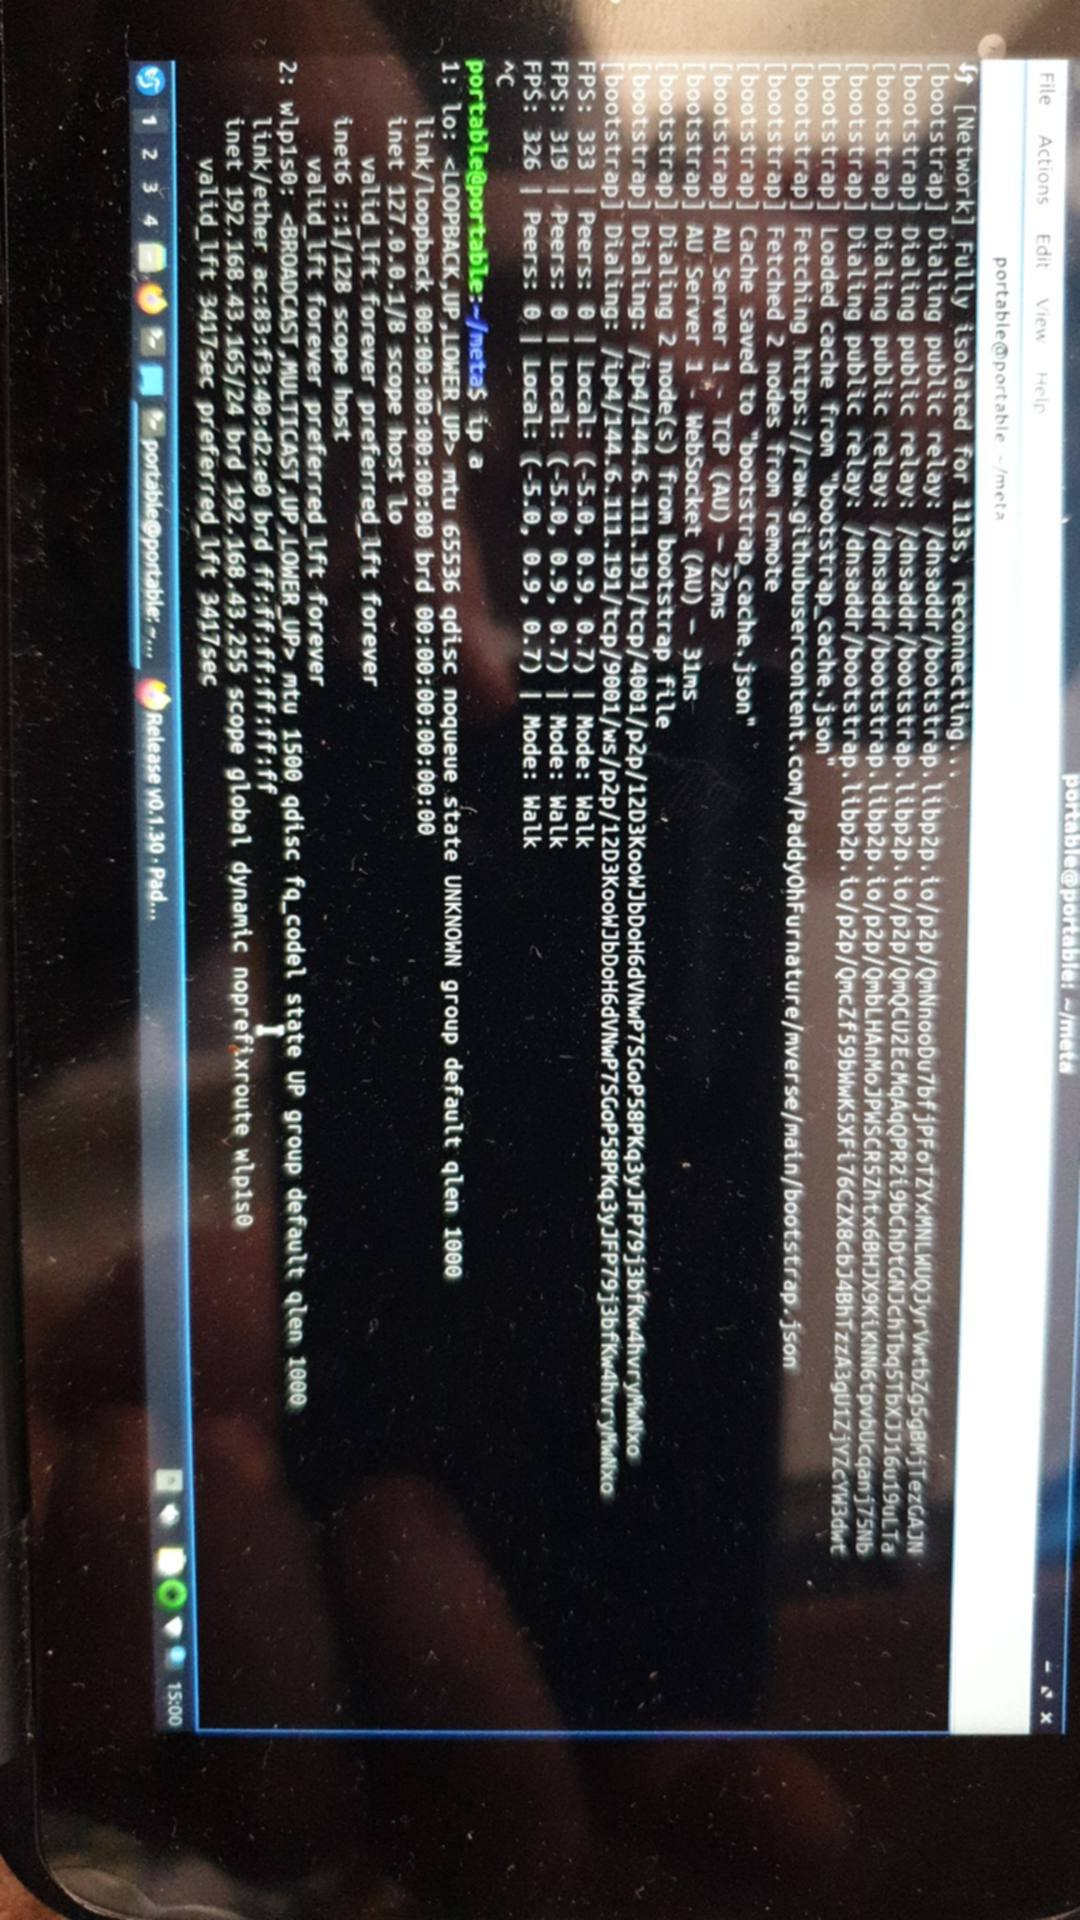
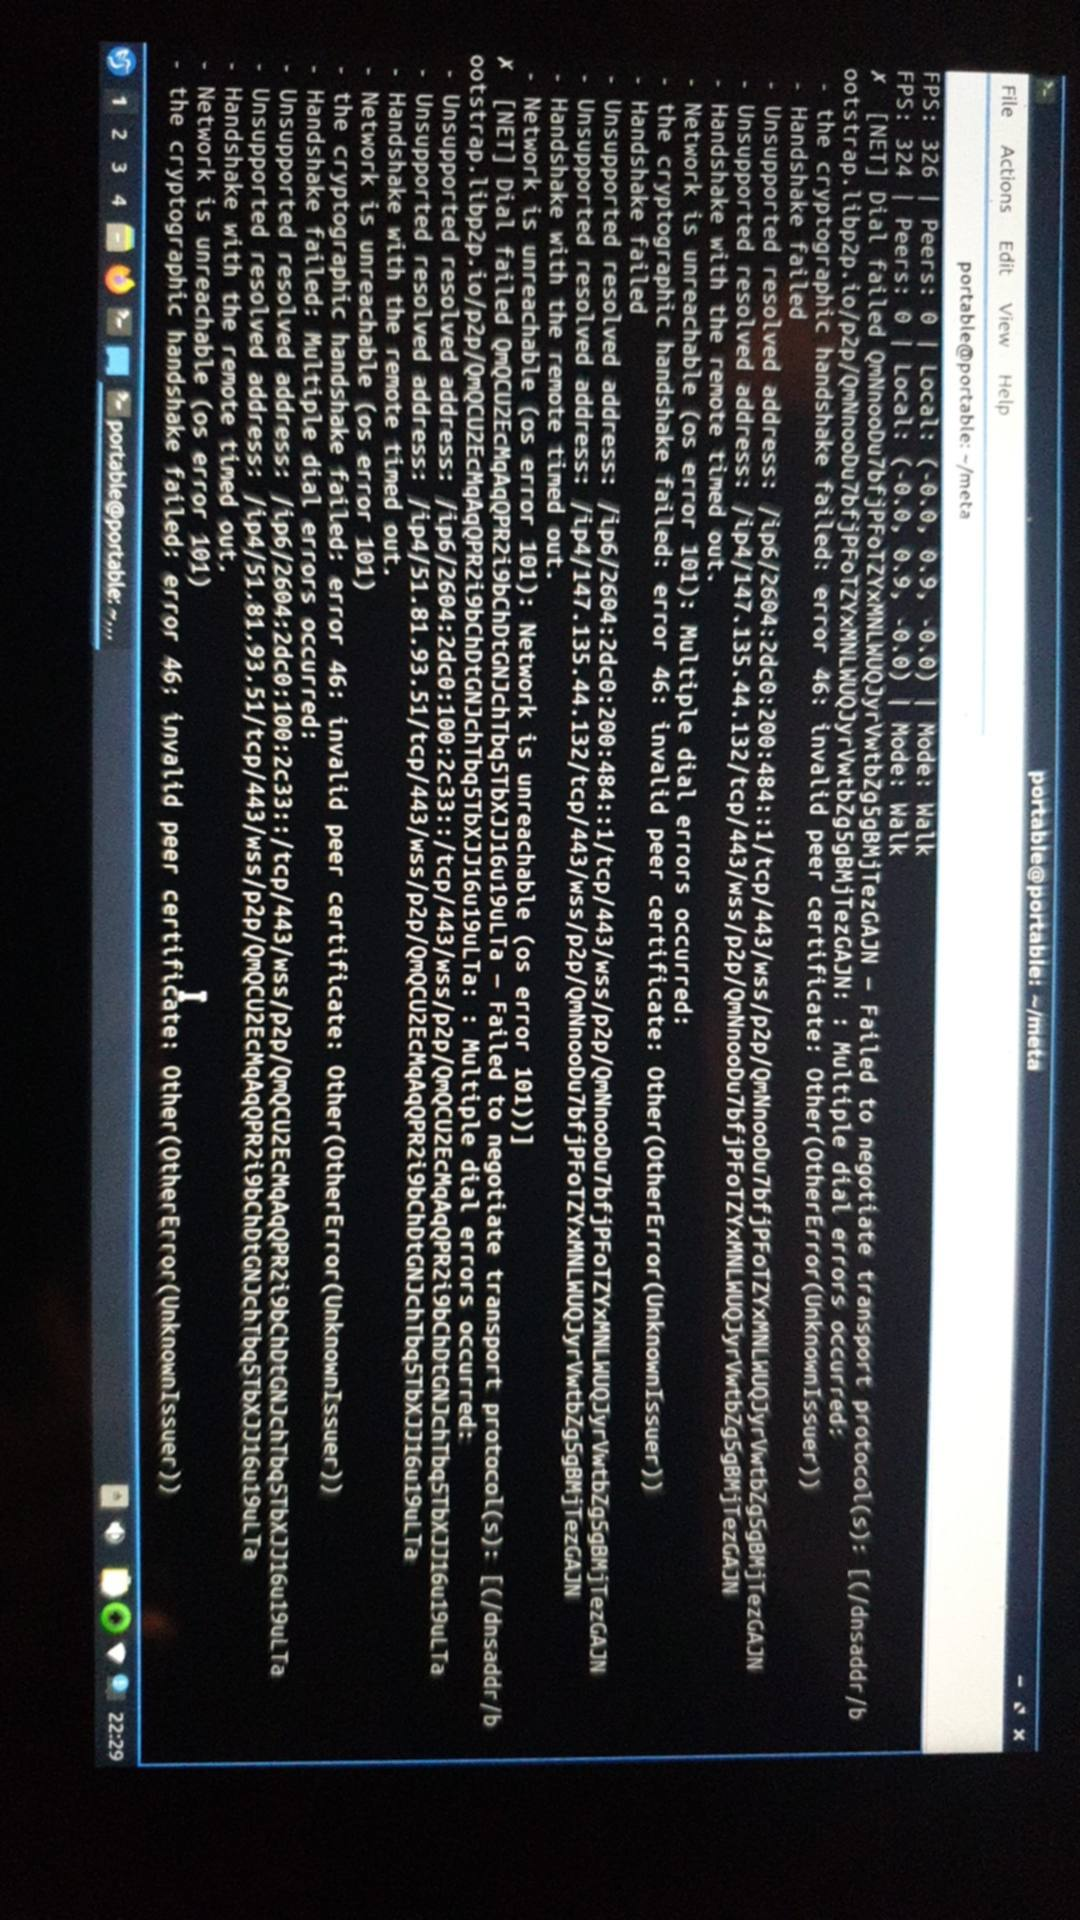
v0.1.37: remove public libp2p bootstrap nodes
Protocol Labs bootstrap.libp2p.io nodes are useless for our private network:
- They don't speak metaverse-server/relay protocol
- Their IPv6 addrs fail on most clients (os error 101)
- Their WSS addrs fail with UnknownIssuer (no CA roots in client)
- They don't have our server in their DHT namespace

Our own server at 144.6.111.191 (bootstrap.json) is sufficient.
The noise was hidden before v0.1.36; now visible due to proper error logging.

diff --git a/src/network.rs b/src/network.rs
@@ -660,34 +660,8 @@ impl NetworkNode {
     }
 
     /// Fetch bootstrap nodes from the remote URL (or cache/fallback) and dial them all.
-    /// Also dials Protocol Labs public relay nodes and registers relay circuit listeners.
     /// Call this once after `listen_on` to join the network.
     pub async fn connect_to_bootstrap(&mut self) {
-        // Protocol Labs public relay/bootstrap nodes - permanent infrastructure, no hosting needed
-        // Both sides connect OUTBOUND to these - works through CGNAT, VPN, Starlink, 4G
-        let public_relay_nodes: &[(&str, &str)] = &[
-            ("QmNnooDu7bfjPFoTZYxMNLWUQJyrVwtbZg5gBMjTezGAJN",
-             "/dnsaddr/bootstrap.libp2p.io/p2p/QmNnooDu7bfjPFoTZYxMNLWUQJyrVwtbZg5gBMjTezGAJN"),
-            ("QmQCU2EcMqAqQPR2i9bChDtGNJchTbq5TbXJJ16u19uLTa",
-             "/dnsaddr/bootstrap.libp2p.io/p2p/QmQCU2EcMqAqQPR2i9bChDtGNJchTbq5TbXJJ16u19uLTa"),
-            ("QmbLHAnMoJPWSCR5Zhtx6BHJX9KiKNN6tpvbUcqanj75Nb",
-             "/dnsaddr/bootstrap.libp2p.io/p2p/QmbLHAnMoJPWSCR5Zhtx6BHJX9KiKNN6tpvbUcqanj75Nb"),
-            ("QmcZf59bWwK5XFi76CZX8cbJ4BhTzzA3gU1ZjYZcYW3dwt",
-             "/dnsaddr/bootstrap.libp2p.io/p2p/QmcZf59bWwK5XFi76CZX8cbJ4BhTzzA3gU1ZjYZcYW3dwt"),
-        ];
-
-        // Dial Protocol Labs nodes and mark them as known relay nodes
-        for (peer_id_str, addr) in public_relay_nodes {
-            if let Ok(peer_id) = peer_id_str.parse::<PeerId>() {
-                self.relay_nodes.insert(peer_id);
-            }
-            match self.dial(addr) {
-                Ok(()) => println!("[bootstrap] Dialing public relay: {}", addr),
-                Err(e) => eprintln!("[bootstrap] Failed to dial {}: {}", addr, e),
-            }
-        }
-
-        // Also dial nodes from our bootstrap.json (Gist / cache / hardcoded fallback)
         let nodes = crate::bootstrap::resolve_bootstrap_nodes().await;
         println!("[bootstrap] Dialing {} node(s) from bootstrap file", nodes.len());
         for addr in &nodes {
